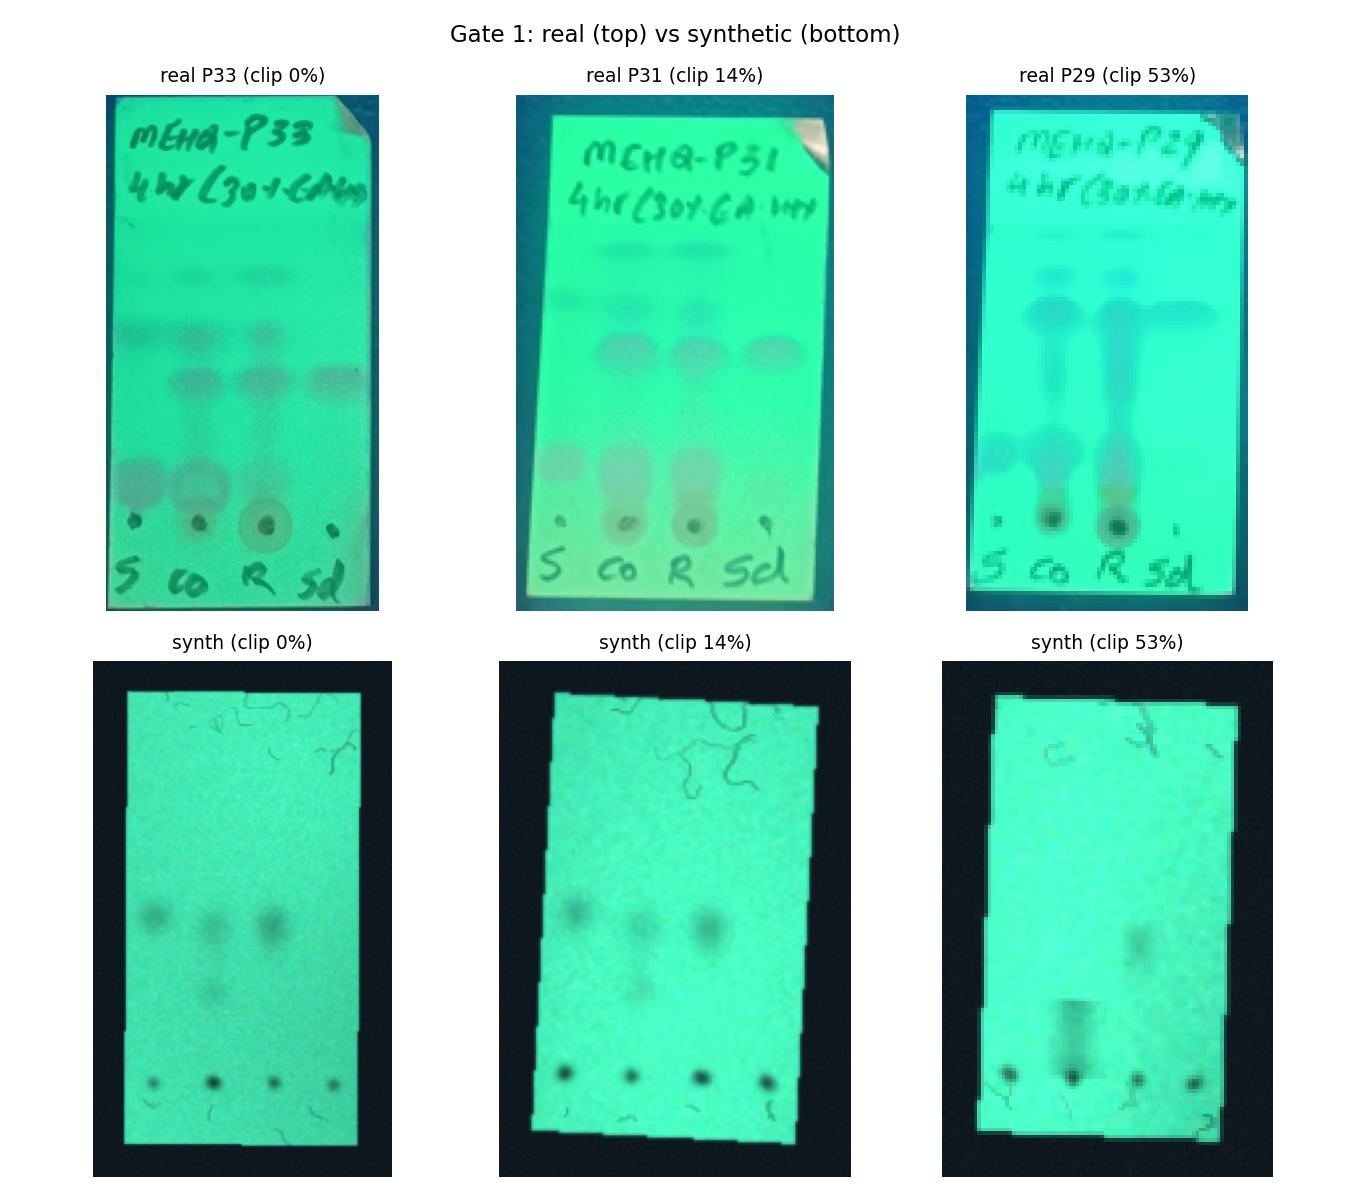
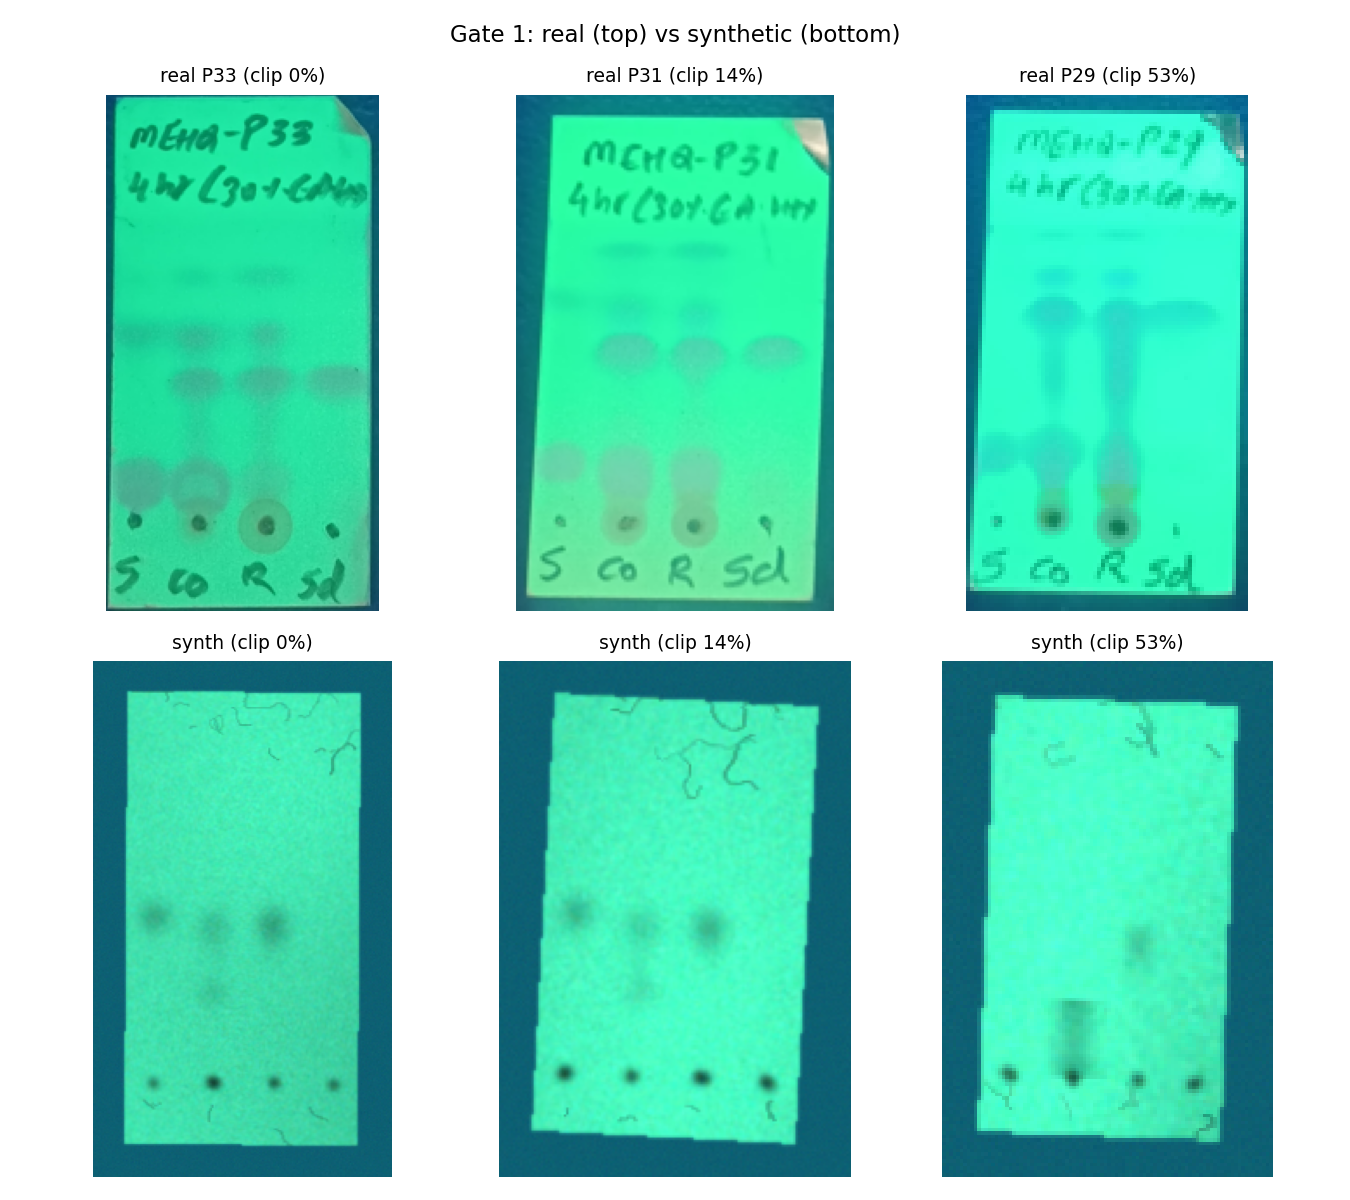
Gate 1: PASS; apply reviewer flags (teal background, swing floor, EMG-mu convention)

Changed region(s): [[0.3422, 0.5242, 0.6533, 0.9867], [0.6844, 0.5242, 0.9644, 0.9867], [0.0622, 0.5242, 0.3111, 0.9867]]

diff --git a/tlc/synth/spec.py b/tlc/synth/spec.py
@@ -78,10 +78,11 @@ class PlateSpec:
     origin_row_frac: float = 0.86          # origin row as fraction of plate height
     front_row_frac: float = 0.20           # front row as fraction of plate height (drawn or not)
 
-    # Colour model (corpus_stats medians: R/G 0.288, B/G 0.770; background dark blue-grey)
+    # Colour model (corpus_stats medians: R/G 0.288, B/G 0.770; background = measured teal
+    # bench, median RGB (13, 96, 115), G range 71-124 — Gate 1 reviewer flag #5)
     red_over_green: float = 0.29
     blue_over_green: float = 0.77
-    background_rgb: tuple[float, float, float] = (14.0, 24.0, 30.0)
+    background_rgb: tuple[float, float, float] = (13.0, 96.0, 115.0)
 
     def to_dict(self) -> dict:
         d = asdict(self)

diff --git a/tlc/synth/generator.py b/tlc/synth/generator.py
@@ -393,7 +393,7 @@ def random_spec(rng: np.random.Generator, **overrides) -> PlateSpec:
         tilt_deg=float(rng.uniform(0.0, 12.0)),
         frame_overrun=(Overrun.NONE, Overrun.NONE, Overrun.NONE, Overrun.TOP, Overrun.BOTTOM, Overrun.BOTH)[int(rng.integers(0, 6))],
         base_green=float(rng.uniform(0.78, 0.95)),
-        illum_swing=float(rng.uniform(0.10, 0.25)),
+        illum_swing=float(rng.uniform(0.11, 0.25)),  # floor 0.11: A-007 estimator reads ~0.01 low
         hotspot_strength=float(rng.uniform(0.2, 0.8)),
         noise_sd=float(rng.uniform(0.007, 0.05)),
         noise_corr_px=float(rng.uniform(0.4, 1.0)),

diff --git a/decisions.md b/decisions.md
@@ -120,3 +120,29 @@ into a compliant skeleton costs less than re-deriving them and less than retrofi
 **Consequences:** golden-output tests against runs/ JSONs are written before porting begins
 (converts the README's unverifiable determinism claim into a regression gate).
 **Revisit if:** golden tests show the described algorithms don't reproduce runs/ outputs.
+
+## D-006 · Gate 1 reviewer flags: what changes now, what becomes a convention
+**Date:** 2026-08-26
+**Status:** accepted
+**Context:** the independent Gate 1 review passed the gate and raised six flags outside its
+coverage (verbatim in GATES.md).
+**Decision:**
+  1. Flag 5 (background contrast): PlateSpec default background_rgb corrected from a guessed
+     near-black (14,24,30) to the measured corpus teal (13,96,115). Plate detection on synthetics
+     now faces realistic contrast. Gate 1 statistics are unaffected (all in-plate, green).
+  2. Flag 2: random_spec swing floor raised 0.10→0.11 to match the gate sweep.
+  3. Flag 3 (EMG centre semantics) becomes a build-wide CONVENTION: a spot's position is the EMG
+     mu (Gaussian-component centre), in ground truth and in every pipeline fit and error metric.
+     The rendered intensity peak of an EMG sits ~O(tau) toward the origin; mixing conventions
+     would create a systematic offset on tailing spots. Recorded here so Phase 3/5 inherit it.
+  4. Flags 1 (estimator-relative noise target) and 6 (clip knob delivers ~0.02-0.04 low on the
+     emitted image; effective emitted range 0.12-0.56) are accepted and documented — A-007
+     already states the estimator-relative nature; the clip knob's purpose (span the observed
+     regime) is met.
+  5. Flag 4 (no spot hue signal in synthetics): accepted; the pipeline measures green only (F1
+     context). If colour-ratio logic is ever proposed, synthetics cannot validate it — that
+     limitation is recorded here.
+**Consequences:** gate1 evidence regenerated at the new defaults (criteria unchanged, artifacts
+re-hashed); committed in the same change.
+**Revisit if:** Phase 2 plate detection behaves differently on real vs synthetic in a way traced
+to residual background/edge differences (e.g. cut corners, tape).

diff --git a/GATES.md b/GATES.md
@@ -29,3 +29,24 @@ tracked; committed import order determinism-before-numpy (line 17 vs 21+) behind
 guard test fails on a deliberately violated copy. Gate 0 closed.
 
 ---
+## Gate 1 · Synthetic plate generator
+**Reviewed:** 2026-08-26, independent agent, at commit 2c17e5b. **Verdict: PASS.**
+- CI exit 0 (20 tests). gate1_check.py deterministic: evidence json byte-identical across two
+  runs and vs committed (sha256 efd05ddd…).
+- Strict criteria: swing knobs 0.11–0.25 measure 0.09945–0.22901, all inside the observed real
+  range [0.09469, 0.24448]; noise default-knob median 0.00728 OD = 0.943× real median 0.00772
+  (±20% required); clip requested 0.14/0.25/0.40/0.60 → emitted 0.1233/0.2189/0.3648/0.5562
+  (max |diff| 0.0438 ≤ 0.05).
+- Calibration targets verified against reports/corpus_stats.json (61 images, 35 low-clip).
+- Spec 05 §12.2 conformance: signature and every GroundTruth field present; amplitude range
+  1–30σ spans below the detection floor (trap avoided).
+- Adversarial: amplitude truth verified honest to ~1% by a differential same-seed measurement
+  (reviewer's own first annulus measurement was off 0.62× — illumination hotspot, not a
+  generator error); corner truth verified bright-inside/dark-outside.
+- Side-by-side judged fit for purpose; six flags recorded outside gate coverage:
+  (1) noise target is estimator-relative (A-007); (2) random_spec swing floor vs sweep floor —
+  fixed; (3) EMG centre = mu convention — adopted build-wide (D-006); (4) no spot hue signal in
+  synthetics; (5) background contrast unrealistically dark — fixed to measured teal (D-006);
+  (6) clip knob delivers ~0.02–0.04 low on emitted images (effective 0.12–0.56).
+
+---
